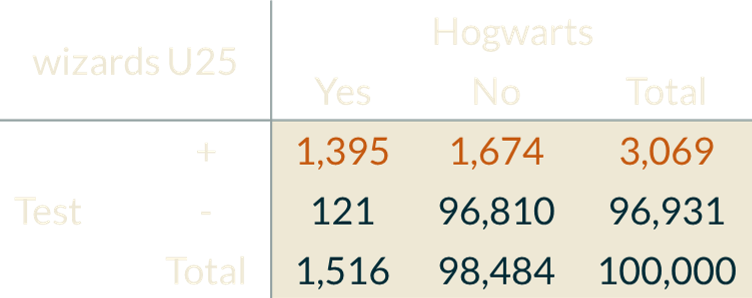
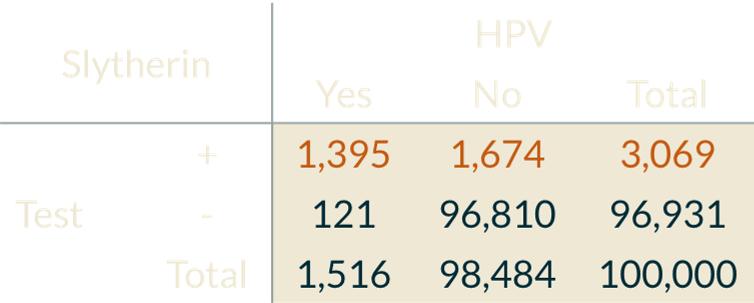
so likeable!

diff --git a/Lectures/lecture2/Lecture_2.html b/Lectures/lecture2/Lecture_2.html
@@ -985,12 +985,12 @@ B &lt;-<span class="st"> </span><span class="kw">c</span>(<span class="op">-</sp
 </section><section id="conditional-probability-in-action" class="slide level2" data-background="pics/hpv2.jpg">
 <h2>Conditional probability in action</h2>
 <ul>
-<li>Suppose Hermione goes to <a href="https://www.nhslothian.scot.nhs.uk/GoingToHospital/Locations/Pages/Chalmers.aspx" target="_blank">Chalmers</a> to get her free NHS-covered routine ‘magica health’ check-up and the HPV test comes back positive</li>
-<li>She is told that the test is 92% <em>sensitive</em> (if she has HPV the test will detect it 92% of the time)</li>
-<li>She finds a paper that reports that the <em>specificity</em> of the test is 98.3% (if she <em>doesn’t</em> have HPV, the test will still come back positive 1.7% of the time)</li>
+<li>Suppose Tom Riddle goes to get his free WHS-covered routine magica health check-up and the test for Haripotricidal Voldemortitis (HPV) comes back positive</li>
+<li>He is told that the test is 92% <em>sensitive</em> (if he has HPV the test will detect it 92% of the time)</li>
+<li>He finds a paper that reports that the <em>specificity</em> of the test is 98.3% (if he <em>doesn’t</em> have HPV, the test will still come back positive 1.7% of the time)</li>
 </ul>
 <ul>
-<li class="fragment">How certain should Hermione be that she indeed has hogwarts?</li>
+<li class="fragment">How certain should Tom be that he is indeed riddled with HPV?</li>
 <li class="fragment">Let’s geek out about it!</li>
 </ul>
 <!-- speaker notes -->
@@ -1002,7 +1002,7 @@ B &lt;-<span class="st"> </span><span class="kw">c</span>(<span class="op">-</sp
 </section><section id="conditional-probability-in-action-1" class="slide level2">
 <h2>Conditional probability in action</h2>
 <ul>
-<li>The prevalence of hogwarts in the Wizarding wolrd is 421 per 100k but it’s much higher in people under 25 at 1,516 per 100k</li>
+<li>The prevalence of HPV in the Wizarding wolrd is 421 per 100k but it’s much higher in house Slytherin at 1,516 per 100k</li>
 </ul>
 <p><img src="pics/hpv_set.png" height="400" /></p>
 <!-- speaker notes -->
@@ -1022,7 +1022,7 @@ B &lt;-<span class="st"> </span><span class="kw">c</span>(<span class="op">-</sp
 </section><section id="conditional-probability-in-action-3" class="slide level2">
 <h2>Conditional probability in action</h2>
 <ul>
-<li>Applying the conditional probability formula, we can see that, for an <strong>average wizard</strong> younger than 25, the probability of actually having a HPV infection given a positive <strong>routine</strong> test is <strong>45.6%</strong></li>
+<li>Applying the conditional probability formula, we can see that, for an <strong>average wizard</strong> affiliated with Slytherin, the probability of actually having a HPV infection given a positive <strong>routine</strong> test is <strong>45.6%</strong></li>
 </ul>
 <!-- speaker notes -->
 <aside class="notes" data-markdown>
@@ -1039,8 +1039,8 @@ B &lt;-<span class="st"> </span><span class="kw">c</span>(<span class="op">-</sp
 <li>I hope I’ve convinced you, that understanding probability is useful</li>
 </ul>
 </aside>
-</section><section id="thats-what-all-this-is-good-for-for-hogwarts-.-.-." class="slide level2" data-background="pics/hpv2.jpg">
-<h2>That’s what all this is good for!<br><subtitle>For hogwarts . . .</subtitle></h2>
+</section><section id="thats-what-all-this-is-good-for-for-hpv-.-.-." class="slide level2" data-background="pics/hpv2.jpg">
+<h2>That’s what all this is good for!<br><subtitle>For HPV . . .</subtitle></h2>
 <!-- speaker notes -->
 <aside class="notes" data-markdown>
 <ul>
@@ -1161,11 +1161,11 @@ pop &lt;-<span class="st"> </span><span class="dv">1</span><span class="op">:</s
 
 <span class="co"># pick 5 of them at random</span>
 <span class="kw">sample</span>(pop, <span class="dv">5</span>)
-[<span class="dv">1</span>]  <span class="dv">9</span>  <span class="dv">3</span> <span class="dv">10</span>  <span class="dv">8</span>  <span class="dv">4</span>
+[<span class="dv">1</span>]  <span class="dv">3</span>  <span class="dv">9</span>  <span class="dv">4</span> <span class="dv">10</span>  <span class="dv">1</span>
 
 <span class="co"># different result each time</span>
 <span class="kw">sample</span>(pop, <span class="dv">5</span>)
-[<span class="dv">1</span>] <span class="dv">4</span> <span class="dv">2</span> <span class="dv">5</span> <span class="dv">9</span> <span class="dv">3</span></code></pre></div>
+[<span class="dv">1</span>] <span class="dv">10</span>  <span class="dv">6</span>  <span class="dv">7</span>  <span class="dv">8</span>  <span class="dv">1</span></code></pre></div>
 <!-- speaker notes -->
 <aside class="notes" data-markdown>
 <ul>
@@ -1185,11 +1185,11 @@ pop &lt;-<span class="st"> </span><span class="dv">1</span><span class="op">:</s
 </ul>
 <div class="sourceCode"><pre class="sourceCode r"><code class="sourceCode r"><span class="co"># sampling WITH replacement</span>
 <span class="kw">sample</span>(pop, <span class="dv">10</span>, <span class="dt">replace =</span> T)
- [<span class="dv">1</span>]  <span class="dv">1</span> <span class="dv">10</span>  <span class="dv">2</span>  <span class="dv">3</span>  <span class="dv">5</span>  <span class="dv">5</span>  <span class="dv">4</span>  <span class="dv">3</span>  <span class="dv">2</span>  <span class="dv">5</span>
+ [<span class="dv">1</span>]  <span class="dv">6</span>  <span class="dv">1</span>  <span class="dv">9</span>  <span class="dv">3</span>  <span class="dv">5</span>  <span class="dv">2</span>  <span class="dv">1</span>  <span class="dv">8</span>  <span class="dv">1</span> <span class="dv">10</span>
 
 <span class="co"># sampling WITHOUT replacement</span>
 <span class="kw">sample</span>(pop, <span class="dv">10</span>)
- [<span class="dv">1</span>]  <span class="dv">2</span>  <span class="dv">3</span>  <span class="dv">6</span>  <span class="dv">8</span>  <span class="dv">5</span>  <span class="dv">7</span>  <span class="dv">4</span> <span class="dv">10</span>  <span class="dv">9</span>  <span class="dv">1</span></code></pre></div>
+ [<span class="dv">1</span>] <span class="dv">10</span>  <span class="dv">1</span>  <span class="dv">3</span>  <span class="dv">6</span>  <span class="dv">8</span>  <span class="dv">9</span>  <span class="dv">4</span>  <span class="dv">7</span>  <span class="dv">2</span>  <span class="dv">5</span></code></pre></div>
 </section><section id="sampling-with-replacement" class="slide level2">
 <h2>Sampling <strong>with</strong> replacement</h2>
 <ul>
@@ -1427,10 +1427,10 @@ OR 2nd quartile, 5th decile, 50th percentile…
 [<span class="dv">1</span>] <span class="dv">25</span>
 <span class="co"># ordinal data must be converted to numeric for median()</span>
 (x &lt;-<span class="st"> </span><span class="kw">ordered</span>(<span class="kw">sample</span>(<span class="dv">1</span><span class="op">:</span><span class="dv">4</span>, <span class="dv">10</span>, <span class="dt">replace =</span> T)))
- [<span class="dv">1</span>] <span class="dv">1</span> <span class="dv">1</span> <span class="dv">2</span> <span class="dv">1</span> <span class="dv">2</span> <span class="dv">1</span> <span class="dv">2</span> <span class="dv">2</span> <span class="dv">1</span> <span class="dv">3</span>
-Levels<span class="op">:</span><span class="st"> </span><span class="dv">1</span> <span class="op">&lt;</span><span class="st"> </span><span class="dv">2</span> <span class="op">&lt;</span><span class="st"> </span><span class="dv">3</span>
+ [<span class="dv">1</span>] <span class="dv">1</span> <span class="dv">4</span> <span class="dv">3</span> <span class="dv">3</span> <span class="dv">2</span> <span class="dv">4</span> <span class="dv">2</span> <span class="dv">3</span> <span class="dv">1</span> <span class="dv">4</span>
+Levels<span class="op">:</span><span class="st"> </span><span class="dv">1</span> <span class="op">&lt;</span><span class="st"> </span><span class="dv">2</span> <span class="op">&lt;</span><span class="st"> </span><span class="dv">3</span> <span class="op">&lt;</span><span class="st"> </span><span class="dv">4</span>
 (<span class="kw">median</span>(<span class="kw">as.numeric</span>(x)))
-[<span class="dv">1</span>] <span class="fl">1.5</span>
+[<span class="dv">1</span>] <span class="dv">3</span>
 <span class="co"># of limited use with ordered categories</span>
 (<span class="kw">median</span>(<span class="kw">as.numeric</span>(data<span class="op">$</span>degree)))
 [<span class="dv">1</span>] <span class="fl">1.5</span>
@@ -1667,7 +1667,7 @@ Any questions?
 <li>There are several measures, each with pros and cons</li>
 <li><em>variance</em> and <em>standard deviation</em> relate to <em>mean</em></li>
 <li><em>SD</em> in cm = 100 × <em>SD</em> in m</li>
-<li><strong>Use that patronus Hermione!</strong></li>
+<li><strong>Use that patronus Tom!</strong></li>
 </ul>
 </section></section>
 <section><section id="see-you-in-the-labs" class="titleslide slide level1" data-background="pics/end2.jpg"><h1> <br><br><br><subtitle>See you in the labs :)</subtitle></h1></section></section>
